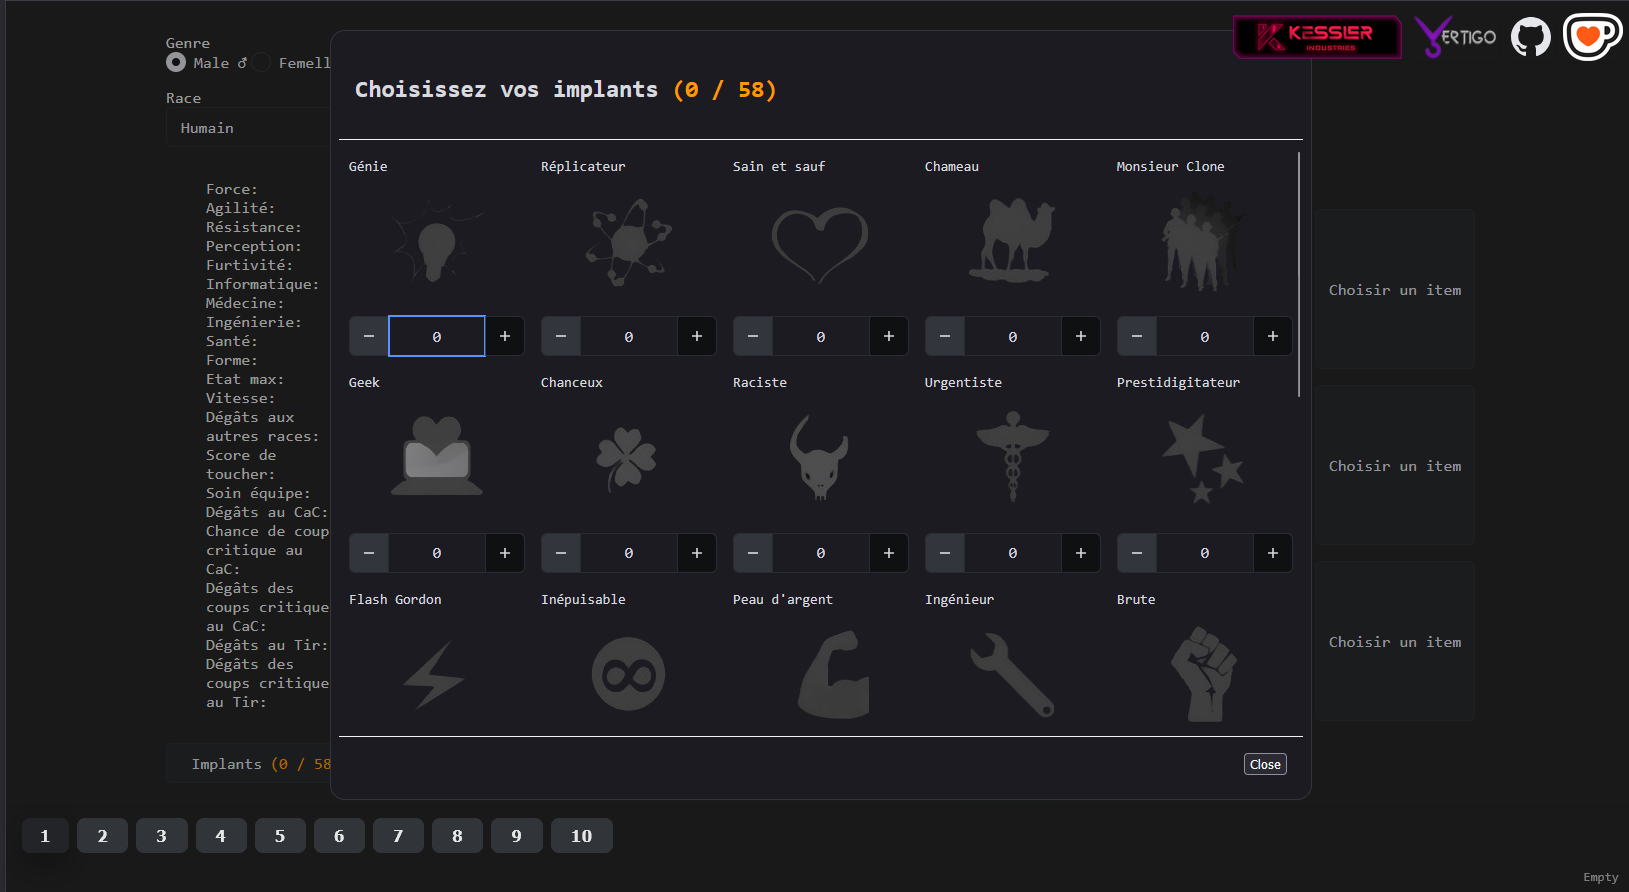
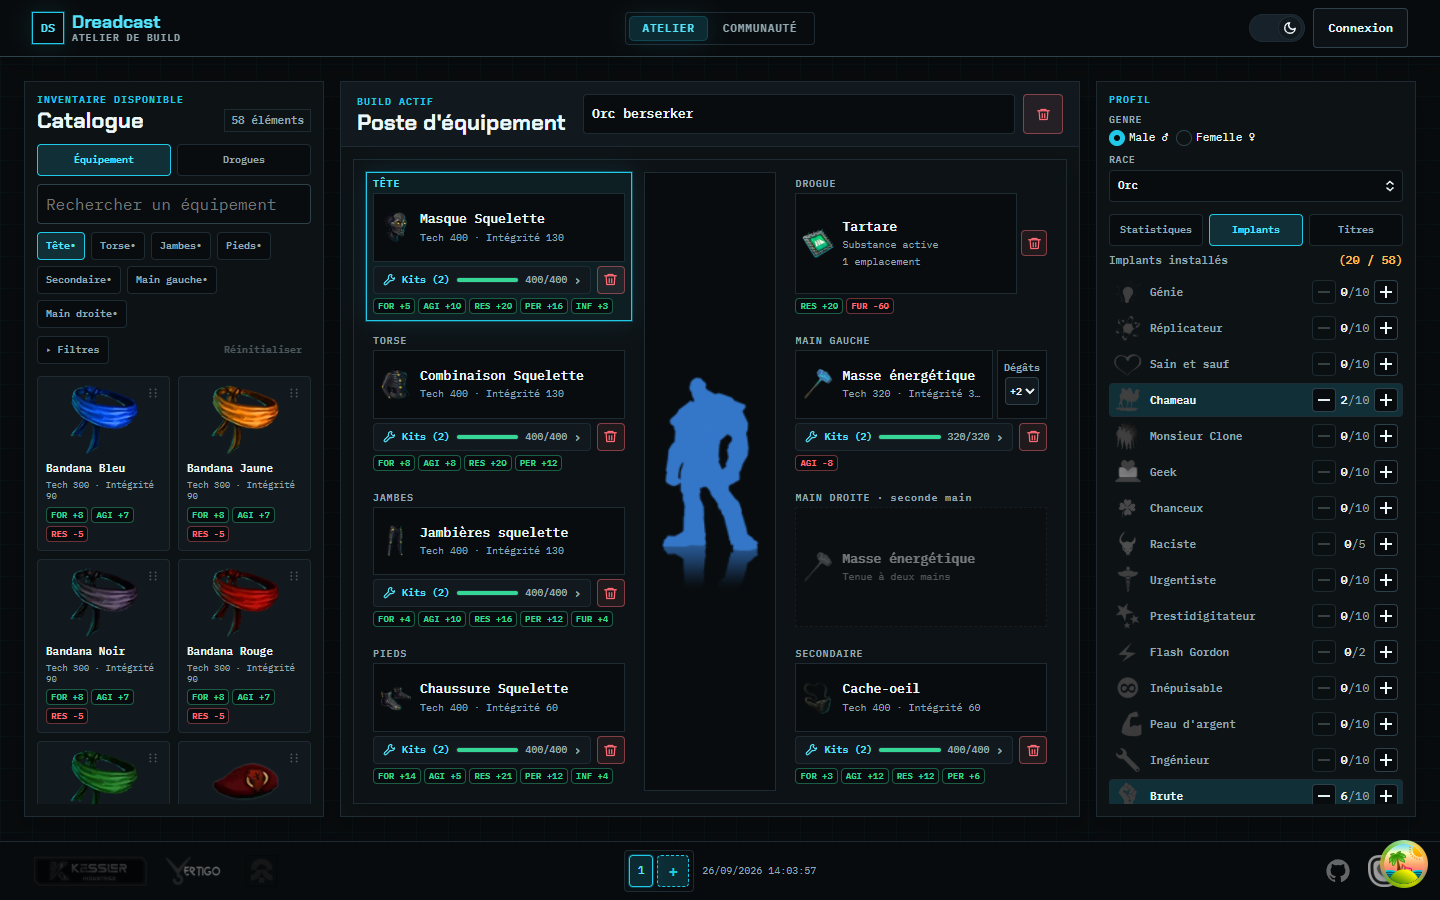
docs(readme): user-facing overview with fresh screenshots
Rewrite the README for players: what the workbench, the saved builds,
the Community and the subscriptions let you do, with no setup or
architecture content (that now lives in FRONTEND_README.md). Replace
the October 2025 screenshots with current ones: workbench, catalogue
filters, kit management, implants, Community list and a publication.

diff --git a/README.md b/README.md
@@ -1,311 +1,81 @@
 # Simulateur de Build Dreadcast
 
-![Dreadcast Simulator](frontend/public/favicon.ico)
+Préparez votre personnage de [Dreadcast](https://dreadcast.net), le jeu de rôle cyberpunk francophone par navigateur, avant de dépenser le moindre crédit : équipez-le, ajoutez kits, implants et drogue, et voyez ses statistiques évoluer en direct.
 
-[![Build Status](https://img.shields.io/github/actions/workflow/status/Isilin/dreadcast_simulator/.github/workflows/copilot-setup-steps.yml?style=flat-square&label=Build)](https://github.com/Isilin/dreadcast_simulator/actions)
-[![Version](https://img.shields.io/github/v/release/Isilin/dreadcast_simulator?style=flat-square)](https://github.com/Isilin/dreadcast_simulator/releases)
-[![License: MIT](https://img.shields.io/badge/License-MIT-yellow?style=flat-square)](https://opensource.org/licenses/MIT)
-[![Vercel](https://img.shields.io/badge/Deployed%20on-Vercel-000000?style=flat-square&logo=vercel)](https://dreadcast-simulator-kappa.vercel.app/)
+**[🚀 Ouvrir le simulateur](https://dreadcast-simulator-kappa.vercel.app/)**
 
-⭐ Si vous aimez ce projet, mettez-lui une étoile sur GitHub !
+![L'atelier : catalogue, poste d'équipement et statistiques du personnage](screenshots/atelier.png)
 
-[Vue d'ensemble](#vue-densemble) • [Fonctionnalités](#fonctionnalités) • [Démarrage rapide](#démarrage-rapide) • [Architecture](#architecture) • [Roadmap](#roadmap) • [FAQ](#faq)
+## L'atelier
 
-![Animation montrant l'application en action](screenshots/main.png)
+Tout se passe sur un seul écran : le catalogue à gauche, le personnage au centre, son profil et ses statistiques à droite.
 
-Un simulateur complet pour créer et optimiser vos builds de personnage sur [Dreadcast](https://dreadcast.net), le jeu de rôle cyberpunk francophone par navigateur. Testez différentes combinaisons d'implants, d'équipements et de kits pour maximiser les statistiques de votre personnage.
+- **Profil** : choisissez le genre et la race, qui fixent les statistiques de départ.
+- **Équipement** : tête, torse, jambes, pieds, accessoire secondaire et armes. Glissez un objet du catalogue sur son emplacement ; une arme à deux mains occupe les deux bras. Chaque arme peut recevoir son bonus de dégâts (+0 à +5).
+- **Catalogue** : recherche par nom, filtres par emplacement, par spécialisation (médecin, tireur, tank…), par bonus de statistique, ou seulement ce que votre personnage peut porter.
+- **Kits** : ajoutez des kits sur chaque équipement dans la limite de sa technologie, avec la jauge de tech restante et les effets cumulés.
+- **Implants** : réglez le niveau de chaque implant, dans la limite du nombre d'implants installables.
+- **Drogue** : activez une drogue et ses effets secondaires.
+- **Titres** : cochez les titres débloqués par votre personnage.
+- **Prérequis** : un objet ou un kit dont les conditions ne sont pas remplies (statistiques, titre, implant, race) est signalé.
+- **Statistiques** : force, agilité, résistance, santé, dégâts, chances de critique… recalculées à chaque modification.
 
-> [!TIP]
-> L'application est entièrement fonctionnelle en mode hors-ligne grâce au stockage local. Aucune connexion internet n'est requise après le chargement initial.
+| Catalogue et filtres                                   | Gestion des kits                              | Implants                                        |
+| ------------------------------------------------------ | --------------------------------------------- | ----------------------------------------------- |
+| ![Catalogue et ses filtres](screenshots/catalogue.png) | ![Kits d'un équipement](screenshots/kits.png) | ![Niveaux d'implants](screenshots/implants.png) |
 
-## Vue d'ensemble
+## Vos builds
 
-Le Simulateur de Build Dreadcast permet aux joueurs de planifier leurs personnages en explorant différentes combinaisons d'équipements et d'augmentations cybernétiques. L'application calcule automatiquement les statistiques finales et gère les prérequis, offrant une expérience fluide pour optimiser vos builds.
+- **Sans compte** : un build, conservé dans votre navigateur.
+- **Avec un compte** : jusqu'à 5 builds, retrouvés sur tous vos appareils, à nommer et supprimer à volonté.
+- **Avec un abonnement** : builds illimités. À la fin de l'abonnement, les builds au-delà de 5 sont conservés mais masqués.
 
-![Gestion des implants](screenshots/implants.png) ![Sélection des items](screenshots/items.png) ![Sélection des kits](screenshots/kits.png)
+Chaque modification est enregistrée automatiquement.
 
-Cette application est construite avec des technologies modernes et suit une architecture feature-sliced pour une maintenabilité optimale.
+## La Communauté
 
-## Fonctionnalités
+![Les builds publiés par la communauté](screenshots/communaute.png)
 
-- **Création de personnage complète**
-  - Sélection du genre et de la race avec impact sur les statistiques
-  - Configuration des implants cybernétiques avec niveaux variables
-  - Gestion de l'équipement complet (tête, torse, jambes, pieds, armes)
-  - Ajout de kits techniques spécialisés
-  - Atelier unifié avec catalogue, filtres et glisser-déposer pour équipements, kits, implants et drogues
-  - Calcul en temps réel des statistiques finales
+- **Publier** : les abonnés publient une copie figée de leur build, signée de leur pseudo, avec une spécialisation détectée d'après les statistiques (modifiable).
+- **Chercher** : filtres par spécialisation, note, race, genre, armes et version du jeu ; pour les abonnés, seuils de statistiques, implants, drogue, équipement précis et favoris. Tri par tendance, note, nouveauté, nombre d'avis ou dernière mise à jour.
+- **Consulter** : fiche complète du build (équipement, kits, implants, statistiques), avec note de 1 à 5 étoiles et avis courts.
+- **Réutiliser** : copier un build dans votre atelier, le mettre en favori, le comparer à l'un de vos builds.
+- **Découvrir** : recommandations « Pour vous » et « Builds proches du mien ».
+- **Partager** : chaque publication a son lien ; les visiteurs sans compte en voient un aperçu.
 
-- **Gestion des builds**
-  - Hors connexion: 1 build stocke en local (localStorage)
-  - Connecte sans abonnement valide: 5 builds distants (BDD)
-  - Connecte avec abonnement valide: nombre de builds illimite (BDD)
-  - Partage d'un build publie dans la Communaute via son lien (`/communaute/:id`, apercu ouvert aux visiteurs non connectes)
-  - En fin d'abonnement, les builds > 5 sont conserves mais masques
-  - Validation automatique des prerequis
-  - Interface intuitive avec apercu des modifications
+![Fiche d'un build publié](screenshots/communaute-detail.png)
 
-- **Authentification**
-  - Connexion via endpoint serverless `/api/auth/login` (utilisateur/email + mot de passe)
-  - Redirection automatique vers la page de connexion si la session est absente
-  - Menu compte connecte avec acces a la page `abonnement` et deconnexion
+Les membres connectés sans abonnement parcourent la liste en aperçu ; le détail, les filtres avancés, les notes et la copie sont réservés aux abonnés.
 
-- **Abonnements**
-  - Page SaaS dediee aux plans: 1 an (50.000¢), 6 ans (250.000¢), 12 ans (450.000¢), Illimite (800.000¢)
-  - Enregistrement de chaque abonnement avec date de debut et date de fin
-  - API serverless `/api/subscriptions` securisee via jeton Supabase
-  - Prix et dates recalcules en base depuis le plan, validation par un administrateur
+## Abonnements
 
-- **Communauté** (`/communaute`)
-  - Les abonnes publient une copie figee de leurs builds, signee de leur pseudo (definitif)
-  - Specialisation detectee a partir des statistiques, modifiable a la publication
-  - Filtres: specialisation, note, race, genre, armes, version du jeu, et pour les
-    abonnes seuils de statistiques, implants, drogue, equipement precis et favoris
-  - Tris: tendance (par defaut), mieux notes, recents, plus d'avis, mis a jour
-  - Notation 1 a 5 etoiles avec avis court, copie dans ses builds, favoris,
-    comparaison avec un de ses builds
-  - Recommandations par similitude de statistiques (« Pour vous », « Builds proches du mien »)
-  - Connecte sans abonnement: apercu de la liste; en fin d'abonnement, les
-    publications restent visibles mais figees
-
-- **Données du jeu**
-  - Basé sur les mécaniques officielles de Dreadcast
-  - Implants, équipements et kits à jour
-  - Terminologie RPG authentique en français
-  - Calculs de statistiques précis
-
-## Démarrage rapide
-
-### Option 1: Accès direct en ligne
-
-Utilisez l'application directement depuis votre navigateur :
-
-**[🚀 Ouvrir le Simulateur](https://dreadcast-simulator-kappa.vercel.app/)**
-
-### Option 2: Installation locale
-
-Clonez et exécutez le projet localement pour le développement :
-
-```bash
-# Cloner le dépôt
-git clone https://github.com/Isilin/dreadcast_simulator.git
-
-# Naviguer vers le projet
-cd dreadcast_simulator/frontend
-
-# Installer les dépendances
-yarn install
-
-# Démarrer le serveur de développement
-yarn dev
-```
-
-Ouvrez [http://localhost:5173](http://localhost:5173) dans votre navigateur.
-
-### Variables d'environnement (auth Supabase)
-
-Le frontend accepte maintenant l'un des deux formats ci-dessous dans `.env.local`.
-
-Format Vite :
-
-```bash
-VITE_SUPABASE_URL=https://votre-projet.supabase.co
-VITE_SUPABASE_ANON_KEY=votre_cle_anon
-```
-
-Format Vercel/NEXT_PUBLIC (déjà présent sur ton projet) :
-
-```bash
-NEXT_PUBLIC_SIMULATOR_SUPABASE_URL=https://votre-projet.supabase.co
-NEXT_PUBLIC_SIMULATOR_SUPABASE_ANON_KEY=votre_cle_anon
-```
-
-Sans ces variables, la page de connexion s'affichera mais la connexion sera désactivée.
-
-### Données du catalogue en local
-
-Le serveur Vite proxifie les appels `/api/*` vers le déploiement Vercel. Le catalogue, les kits, les implants, les drogues et les races nécessitent donc une API Vercel fonctionnelle et une configuration Supabase valide.
-
-Quand le panneau Catalogue affiche `Catalogue indisponible`, le client a reçu une erreur de service. Vérifiez les variables Supabase du projet Vercel et les journaux des fonctions serverless. L'interface reste utilisable pour les builds déjà enregistrés localement.
-
-### Option 3: Environnement de développement
-
-Pour les développeurs souhaitant contribuer :
-
-```bash
-# Installer toutes les dépendances
-yarn install
-
-# Lancer les vérifications qualité
-yarn lint          # Vérification ESLint
-yarn test          # Tests unitaires Vitest
-yarn format        # Formatage Prettier
-yarn build         # Build de production
-
-# Démarrer avec rechargement automatique
-yarn dev
-```
-
-## Architecture
-
-### Stack technologique
-
-- **Frontend**: React 19 + TypeScript pour une expérience utilisateur moderne
-- **Routage**: TanStack Router pour la navigation côté client
-- **Gestion d'état**: TanStack Query + Architecture reducer/context personnalisée
-- **Styling**: CSS Modules avec variables CSS pour le theming
-- **Build**: Vite pour des builds rapides et un développement fluide
-- **Déploiement**: Vercel avec déploiement automatique
-
-### Pattern architectural
-
-Le projet suit une architecture **feature-sliced design** pour une organisation claire :
-
-```text
-src/
-├── domain/          # Types partagés (Stat, ItemSpot, etc.)
-├── feature/         # Fonctionnalités métier
-│   ├── build/        # Atelier, coordination et drag-and-drop
-│   ├── auth/         # Session et identifiants
-│   ├── persistence/  # Snapshots, autosave et builds distants
-│   ├── implant/     # Gestion des implants
-│   ├── item/        # Gestion des équipements
-│   ├── kit/         # Gestion des kits
-│   ├── profile/      # Profil du personnage
-│   └── stats/        # Calcul et présentation des statistiques
-├── ui/               # Composants réutilisables sans logique métier
-├── routes/           # Composition des pages
-└── styles/           # Styles globaux et thème
-```
-
-Chaque fonctionnalité est organisée selon le pattern `model/services/ui` :
-
-- **model**: Types, état et logique métier
-- **services**: Récupération de données et intégrations
-- **ui**: Composants React et interface utilisateur
-
-### Gestion d'état
-
-- **Stores Zustand** séparés par domaine
-- **TanStack Query** pour les données distantes et leurs états de chargement
-- Persistance hybride: `localStorage` hors connexion et BDD une fois connecté
-- Validation avec schémas Zod
-
-### Frontières de responsabilité
-
-- `feature/build` orchestre l'atelier, les modes de catalogue et le protocole
-  drag-and-drop; les composants métier restent dans `item`, `kit`, `implant` et
-  `drug`.
-- `feature/persistence` sépare chargement, snapshots, autosave et builds
-  distants.
-- `feature/auth` sépare session Supabase et opérations d'identifiants derrière
-  une façade stable.
-- `src/ui` contient uniquement les primitives génériques réutilisables.
-
-Voir [FRONTEND_README.md](FRONTEND_README.md) pour le détail des flux et des
-conventions d'implémentation.
-
-## Développement
-
-### Scripts disponibles
-
-```bash
-yarn dev          # Serveur de développement (port 5173)
-yarn build        # Build de production avec vérification TypeScript
-yarn analyze      # Build avec rapport de taille dans dist/stats.html
-yarn lint         # Vérification ESLint
-yarn test         # Tests unitaires Vitest
-yarn lint:fix     # Correction automatique des erreurs ESLint
-yarn format       # Formatage avec Prettier
-yarn preview      # Preview du build de production
-```
-
-### Standards de code
-
-Le projet suit des standards stricts définis dans [CODING_STANDARDS.md](CODING_STANDARDS.md) :
-
-- **TypeScript strict** avec pattern `as const` pour les énumérations
-- **Feature-sliced design** avec exports barrel (`index.ts`)
-- **CSS Modules** avec noms sémantiques
-- **Hooks personnalisés** pour la logique réutilisable
-- **Tests** avec Vitest, notamment sur le protocole et les mutations DnD
-
-### Configuration GitHub Copilot
-
-Le projet inclut une configuration complète GitHub Copilot dans `.github/` :
-
-- **Instructions** pour React, TypeScript, testing et sécurité
-- **Prompts** pour la création de composants, tests et documentation
-- **Agents** spécialisés (architecture, review, débogage)
-- **Workflow** GitHub Actions pour validation continue
-
-## Roadmap
-
-### Version courante (v1.0)
-
-- [x] Interface de base avec React 19
-- [x] Gestion complète des implants
-- [x] Système d'équipement et de kits
-- [x] Sauvegarde locale de builds
-- [x] Calcul automatique des statistiques
-- [x] Mode sombre/clair
-- [x] Version mobile responsive
-- [x] Animations et transitions fluides
-- [x] Bonus d'armes
-- [x] Ajout des drogues
-
-### Prochaines versions
-
-#### v1.1 - Fonctionnalités avancées
-
-- [x] Partage de builds via URL
-- [x] Comparaison de builds côte à côte (Communauté)
-- [ ] Suggestions d'optimisation automatiques
-
-#### v1.2 - Mécaniques avancées
-
-- [ ] Formules de stats avancées (encaissement, etc.)
-- [ ] Modificateurs complexes
-- [ ] Support complet des drogues et effets temporaires
-
-#### v2.0 - Backend et collaboration
-
-- [x] Comptes utilisateurs et builds partagés
-- [x] Classements et builds de la communauté
+Plusieurs durées d'abonnement (en années de jeu, ou illimité) sont proposées depuis le menu du compte. Chaque demande est validée par un administrateur.
 
 ## FAQ
 
-**L'application fonctionne-t-elle hors-ligne ?**
-Oui, une fois chargée, l'application fonctionne entièrement hors-ligne grâce au stockage local.
-
 **Les statistiques sont-elles identiques au jeu ?**
-Les calculs sont basés sur les formules officielles connues, mais de légères variations peuvent exister selon les mises à jour du jeu.
-
-**Puis-je contribuer au projet ?**
-Absolument ! Consultez [CODING_STANDARDS.md](CODING_STANDARDS.md) pour les conventions, puis ouvrez une issue ou une pull request.
+Les calculs reprennent les formules connues du jeu ; de légers écarts peuvent apparaître après une mise à jour de Dreadcast.
 
 **Le simulateur est-il officiel ?**
-Non, c'est un projet communautaire non-officiel créé par des joueurs passionnés.
+Non, c'est un projet communautaire créé par des joueurs.
 
-**Comment signaler un bug ?**
-Ouvrez une [issue sur GitHub](https://github.com/Isilin/dreadcast_simulator/issues) avec une description détaillée du problème.
+**Comment signaler un bug ou proposer une idée ?**
+Ouvrez une [issue sur GitHub](https://github.com/Isilin/dreadcast_simulator/issues).
 
 ## Soutenir le projet
 
-Si ce simulateur vous aide dans vos aventures cyberpunk :
+- ⭐ Mettez une étoile au projet sur GitHub
+- ☕ Offrez un café sur [Ko-fi](https://ko-fi.com/isilin)
+- 🎮 Faites un don en jeu à Pelagia sur Dreadcast
 
-- **⭐ Mettez une étoile** au projet sur GitHub
-- **🐛 Signalez les bugs** via les issues GitHub
-- **💡 Proposez des améliorations** avec vos idées
-- **☕ Offrez un café** sur [Ko-fi](https://ko-fi.com/isilin)
-- **🎮 Don en jeu** à [Pelagia] sur Dreadcast
+## Contact
 
-## Contact et communauté
+- **Discord** : isilibn
+- **GitHub** : [@Isilin](https://github.com/Isilin)
+- **Dreadcast** : Pelagia
 
-- **Discord**: [isilibn]
-- **GitHub**: [@Isilin](https://github.com/Isilin)
-- **Dreadcast**: [Pelagia]
+Vous voulez contribuer au code ? Le guide technique est dans [FRONTEND_README.md](FRONTEND_README.md).
 
 ---
 
-> **Note légale**: Ce projet est un outil communautaire non-officiel. Il n'est pas affilié à l'administration du jeu Dreadcast. Toutes les données du jeu appartiennent à leurs propriétaires respectifs.
+> **Note légale** : ce projet est un outil communautaire non officiel, sans lien avec l'administration de Dreadcast. Les données du jeu appartiennent à leurs propriétaires respectifs.
